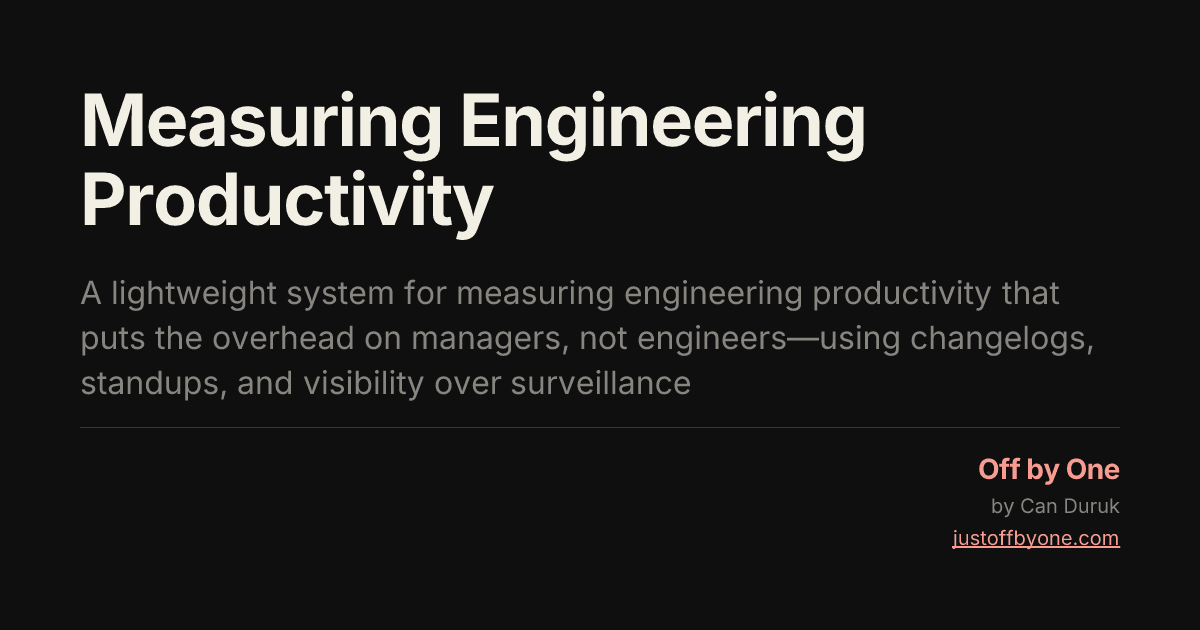
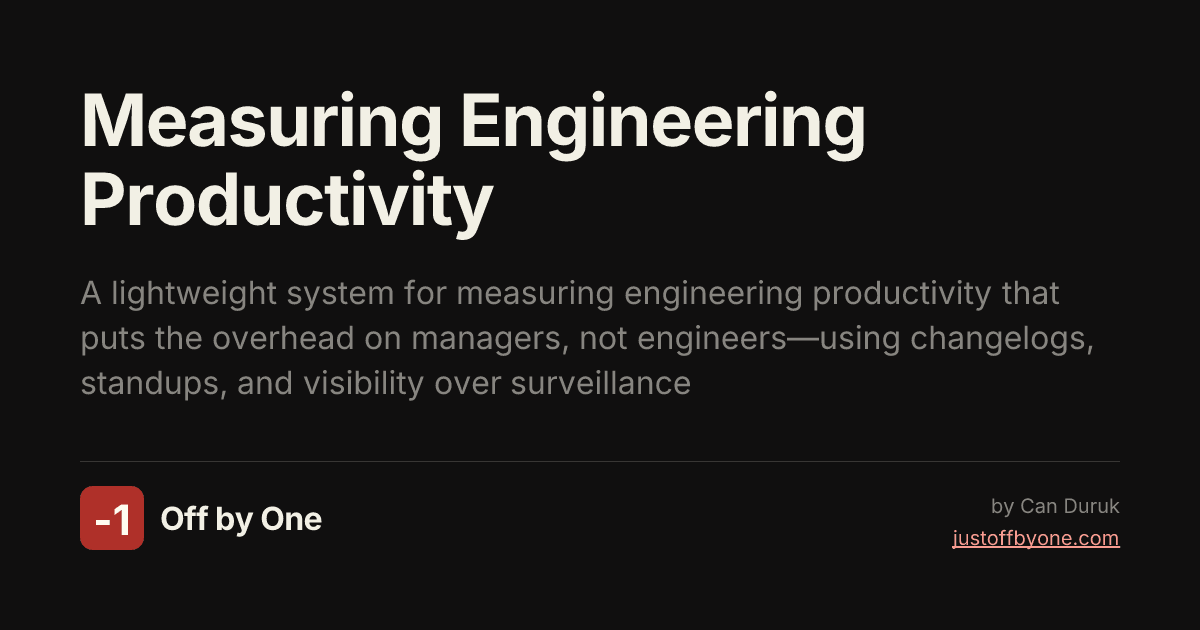
New images

Changed region(s): [[0.0617, 0.754, 0.2775, 0.8746], [0.8017, 0.7238, 0.9558, 0.7841]]

diff --git a/src/components/ui/hero-template.tsx b/src/components/ui/hero-template.tsx
@@ -102,12 +102,30 @@ export function HeroTemplate({ title, description }: HeroTemplateProps) {
             alignItems: 'flex-end',
           }}
         >
-          {/* Logo */}
-          <div style={{ width: '64px', height: '64px', display: 'flex' }}>
-            <FaviconTemplate size={64} />
+          {/* Logo and site name */}
+          <div
+            style={{
+              display: 'flex',
+              alignItems: 'center',
+              gap: '16px',
+            }}
+          >
+            <div style={{ width: '64px', height: '64px', display: 'flex' }}>
+              <FaviconTemplate size={64} />
+            </div>
+            <div
+              style={{
+                fontSize: '32px',
+                fontWeight: 'bold',
+                color: colors.foreground,
+                letterSpacing: '-0.02em',
+              }}
+            >
+              Off by One
+            </div>
           </div>
 
-          {/* Brand: Off by One */}
+          {/* Brand details */}
           <div
             style={{
               display: 'flex',
@@ -116,16 +134,6 @@ export function HeroTemplate({ title, description }: HeroTemplateProps) {
               gap: '8px',
             }}
           >
-            <div
-              style={{
-                fontSize: '28px',
-                fontWeight: 'bold',
-                color: colors.primary,
-                letterSpacing: '-0.02em',
-              }}
-            >
-              Off by One
-            </div>
             <div
               style={{
                 fontSize: '20px',
